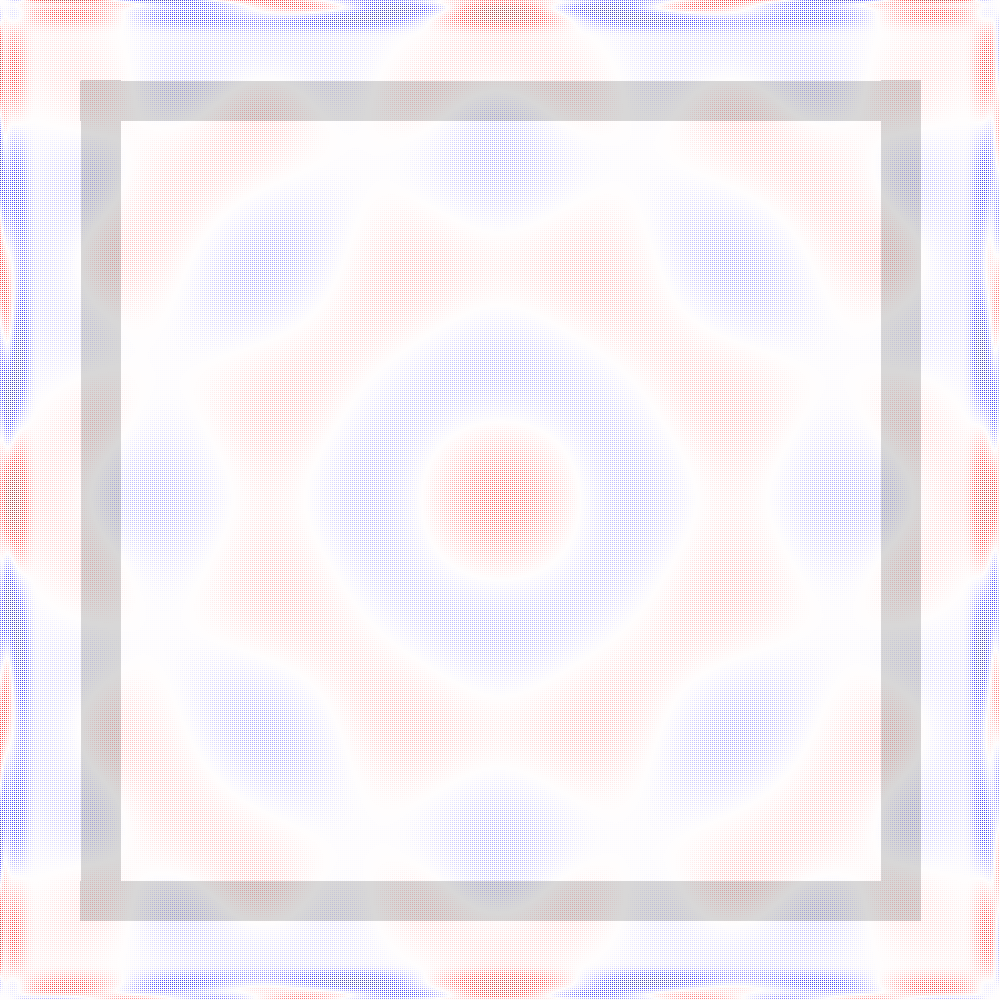
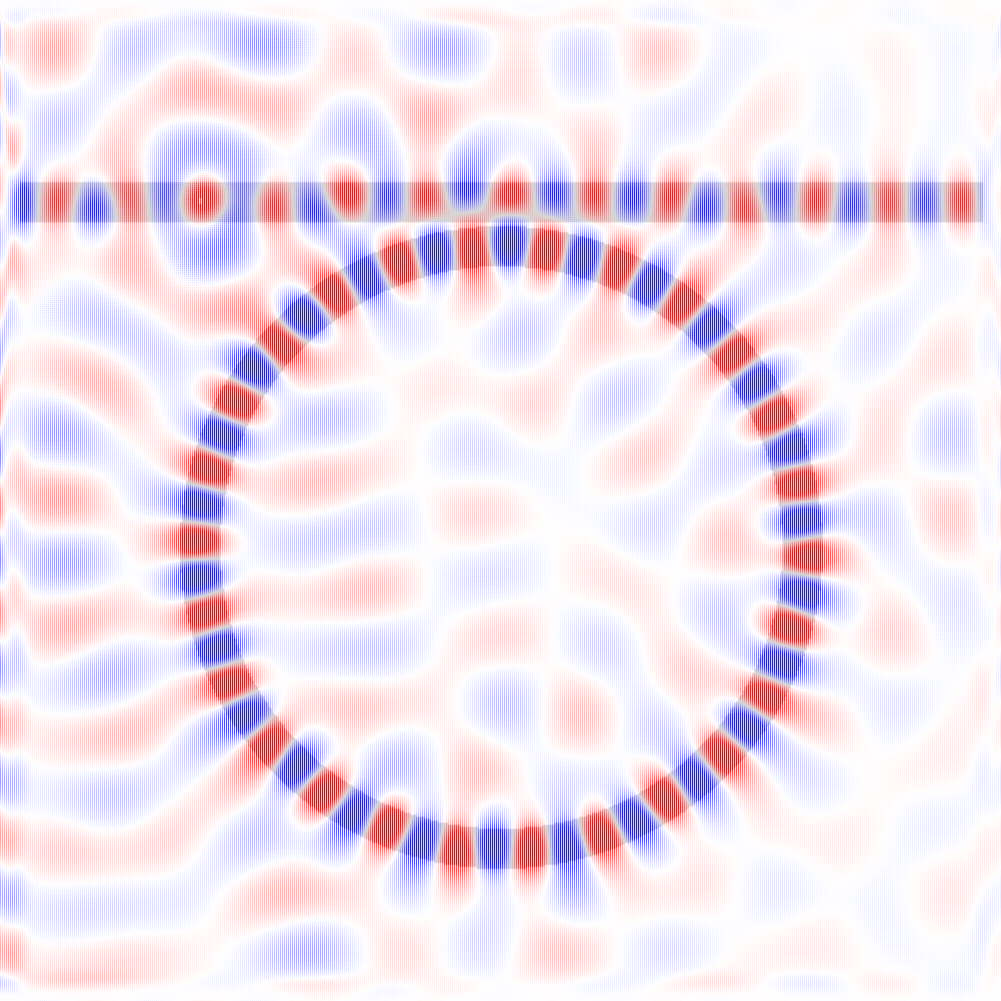
trying patching

diff --git a/python-src/fdfd.py b/python-src/fdfd.py
@@ -1,17 +1,21 @@
 import numpy as np
+import scipy.sparse as sparse
 import scipy.sparse as sp
+from scipy.linalg import solve_banded
 from main import material_init
 from utils import plot_Ez
 import matplotlib.pyplot as plt
+import time
+import pyamg
+from collections import deque
+
+
+def solve_linear(A, b):
+    return sp.linalg.spsolve(A, b)
 
 
 def make_A(eps, mu, dx, dy, Nx, Ny, omega, pml_thickness=40, sigma_max=2, m=3):
-    print("Starting make_A function...")
-    print(f"Grid size: {Nx}x{Ny}, dx={dx}, dy={dy}")
-    print(f"PML parameters: thickness={pml_thickness}, sigma_max={sigma_max}, m={m}")
-
     # define the 1d profiles for the pml first
-    print("Calculating PML profiles...")
     sigma_x_1d = np.zeros(Nx)
     sigma_x_1d[0:pml_thickness] = (
         sigma_max * (np.flip(np.arange(pml_thickness), axis=0) / (pml_thickness)) ** m
@@ -29,54 +33,111 @@ def make_A(eps, mu, dx, dy, Nx, Ny, omega, pml_thickness=40, sigma_max=2, m=3):
     )
 
     # lift to 2d
-    print("Extending PML profiles to 2D...")
     sigma_x_2d_extrapolated = np.tile(sigma_x_1d[None, :], (Ny, 1))
     sigma_y_2d_extrapolated = np.tile(sigma_y_1d[:, None], (1, Nx))
 
     # form stretching array
-    print("Calculating stretching arrays...")
     s_x = 1 + 1j * sigma_x_2d_extrapolated / (omega * 8.85418e-12)
     s_y = 1 + 1j * sigma_y_2d_extrapolated / (omega * 8.85418e-12)
 
     # Construct Dx array
-    print("Constructing derivative operators...")
     Dx = sp.diags([-1, 1], [-1, 1], shape=(Nx, Nx)) / (2 * dx)
     Dy = sp.diags([-1, 1], [-1, 1], shape=(Ny, Ny)) / (2 * dy)
 
     I_N_x = sp.eye(Nx)
     I_N_y = sp.eye(Ny)
 
-    print("Building curl operators...")
     C_x = sp.kron(I_N_y, Dx)
     C_y = sp.kron(Dy, I_N_x)
 
     C_x = sp.diags(1 / s_x.flatten(), 0, shape=(Nx * Ny, Nx * Ny)) @ C_x
     C_y = sp.diags(1 / s_y.flatten(), 0, shape=(Nx * Ny, Nx * Ny)) @ C_y
 
-    print("Creating material matrices...")
     eps_flat = eps.flatten()
     mu_flat = mu.flatten()
 
     M_eps = sp.diags(eps_flat, 0, shape=(Nx * Ny, Nx * Ny))
     M_mu = sp.diags(1 / mu_flat, 0, shape=(Nx * Ny, Nx * Ny))
 
-    print("Assembling final matrix A...")
     A = C_x @ M_mu @ C_x.T + C_y @ M_mu @ C_y.T - omega**2 * M_eps
 
-    print("Matrix A construction complete.")
     return A
 
 
+def plot_nonzero(A):
+    """Plot the sparsity pattern of the first 5000x5000 elements of matrix A.
+    Red indicates nonzero elements, blue indicates zero elements."""
+
+    plt.figure(figsize=(12, 12))
+    A_dense = A[
+        :5000, :5000
+    ].toarray()  # Convert top-left 5000x5000 corner to dense array
+    plt.imshow(A_dense != 0, cmap="RdBu")  # Red for nonzero, blue for zero
+    plt.colorbar()
+    plt.title("Sparsity pattern of matrix A (first 5000x5000 elements)")
+    plt.xlabel("Column index")
+    plt.ylabel("Row index")
+    plt.savefig("matrix_pattern_5000.png", dpi=300, bbox_inches="tight")
+    plt.close()
+
+
+def run_fdfd(eps, mu, dx, dy, omega, source, patch_size=100):
+    patches = []
+    # Split the source into 100x100 patches
+    Nx, Ny = source.shape
+
+    # Calculate number of patches in each dimension
+    n_patches_x = (Nx + patch_size - 1) // patch_size  # Ceiling division
+    n_patches_y = (Ny + patch_size - 1) // patch_size
+
+    # Split into patches
+    for i in range(n_patches_x):
+        for j in range(n_patches_y):
+            # Calculate patch boundaries
+            x_start = i * patch_size
+            x_end = min((i + 1) * patch_size, Nx)
+            y_start = j * patch_size
+            y_end = min((j + 1) * patch_size, Ny)
+
+            # Extract patch
+            patch = source[x_start:x_end, y_start:y_end]
+            patches.append(patch)
+
+    # Find patches with nonzero source
+    nonzero_patches = []
+    patch_locations = []
+    for idx, patch in enumerate(patches):
+        if np.any(patch != 0):
+            nonzero_patches.append(patch)
+            # Calculate patch location from index
+            patch_i = idx // n_patches_y  # Row index
+            patch_j = idx % n_patches_y  # Column index
+            patch_locations.append((patch_i, patch_j))
+
+    # Plot the nonzero patches to visualize their locations
+    plt.figure(figsize=(10, 10))
+    patch_map = np.zeros((n_patches_x, n_patches_y))
+    for i, j in patch_locations:
+        patch_map[i, j] = 1
+    plt.imshow(patch_map, cmap="binary")
+    plt.colorbar()
+    plt.title("Nonzero Source Patch Locations")
+    plt.xlabel("Patch Column Index")
+    plt.ylabel("Patch Row Index")
+    plt.savefig("nonzero_patches.png", dpi=300, bbox_inches="tight")
+    plt.close()
+
+
 if __name__ == "__main__":
-    Nx = 1000
-    Ny = 1000
+    Nx = 1001
+    Ny = 1001
     dx = dy = 1e-3
-    omega = 9e9
+    omega = 17e9
 
     source = np.zeros((Nx, Ny))
-    source[Nx // 2, Ny // 2] = 10
+    source[197:199, 190] = 10
 
-    eps, mu = material_init("box.png", Nx, Ny, 3)
+    eps, mu = material_init("example_structure.png", Nx, Ny, 3)
 
     c_medium = 1 / np.sqrt(eps * mu)
     c_min = np.min(c_medium)
@@ -97,20 +158,17 @@ if __name__ == "__main__":
     b = -1j * omega * source.flatten()
 
     # Plot the top left corner of the matrix A
-    plt.figure(figsize=(10, 10))
-    A_dense = A[:100, :100].toarray()  # Convert top-left corner to dense array
-    plt.imshow(A_dense != 0, cmap="RdBu")  # Red for nonzero, blue for zero
-    plt.colorbar()
-    plt.title("Sparsity pattern of top-left corner of matrix A")
-    plt.savefig("matrix_pattern.png")
-    plt.close()
-    print(b.shape)
+    # plt.figure(figsize=(10, 10))
+    # A_dense = A[:100, :100].toarray()  # Convert top-left corner to dense array
+    # plt.imshow(A_dense != 0, cmap="RdBu")  # Red for nonzero, blue for zero
+    # plt.colorbar()
+    # plt.title("Sparsity pattern of top-left corner of matrix A")
+    # plt.savefig("matrix_pattern.png")
+    # plt.close()
+    # print(b.shape)
+    # graph = sp.csgraph.reverse_cuthill_mckee(A, symmetric_mode=True)
+    # permuted_A = A[graph, :][:, graph]
+    # print(sp.linalg.spbandwidth(A))
+    # print(sp.linalg.spbandwidth(permuted_A))
 
-    # Ez_new = sp.linalg.spsolve(A, b)
-
-    # Ez = Ez_new.reshape(Nx, Ny)
-
-    # Ez = np.real(Ez)
-    # print(np.max(Ez), np.min(Ez))
-
-    # plot_Ez(Ez, eps, source, "Ez.png", np.max(np.abs(Ez)), -np.max(np.abs(Ez)))
+    Ez_new = run_fdfd(eps, mu, dx, dy, omega, source)

diff --git a/python-src/diffusion_training.py b/python-src/diffusion_training.py
@@ -1,0 +1,102 @@
+from fdfd import run_fdfd
+from noise import pnoise2
+import numpy as np
+import matplotlib.pyplot as plt
+import torch
+import torch.nn as nn
+import torch.nn.functional as F
+from utils import plot_Ez
+
+
+def generate_random_structure(Nx=500, Ny=500, eps0=8.85418e-12, mu0=1.25663e-6):
+    """
+    Generate random waveguide structure with input/output waveguides and random middle section.
+
+    Args:
+        Nx, Ny: Grid dimensions
+        eps0: Vacuum permittivity
+        mu0: Vacuum permeability
+
+    Returns:
+        eps: Relative permittivity array
+        mu: Permeability array
+        source: Source array
+    """
+    # Initialize background
+    eps = np.ones((Nx, Ny)) * eps0
+    mu = np.ones((Nx, Ny)) * mu0
+
+    # Add input waveguide on left
+    eps[200:300, :100] = 2 * eps0
+
+    # Add output waveguide on right
+    eps[200:300, 400:] = 2 * eps0
+
+    # Add random structure in middle
+    # Generate Perlin noise for more natural-looking random structures
+
+    # Generate and threshold the noise
+    # Generate Perlin noise
+    scale = 75.0  # Increased scale for lower frequency noise
+    octaves = 4  # Reduced octaves for less fine detail
+    persistence = 0.5  # How much each octave contributes
+    lacunarity = 2.0  # How much detail is added at each octave
+
+    structure_region = np.zeros((300, 300))
+    # Add random offsets to get different patterns each time
+    x_offset = np.random.rand() * 10000000
+    y_offset = np.random.rand() * 10000000
+
+    for i in range(300):
+        for j in range(300):
+            structure_region[i][j] = pnoise2(
+                (i + x_offset) / scale,
+                (j + y_offset) / scale,
+                octaves=octaves,
+                persistence=persistence,
+                lacunarity=lacunarity,
+            )
+
+    # Normalize to [0,1] and threshold
+    structure_region = (structure_region - structure_region.min()) / (
+        structure_region.max() - structure_region.min()
+    )
+    structure_region = structure_region > 0.5  # Convert to binary mask
+    eps[100:400, 100:400] = np.where(structure_region, 2 * eps0, eps[100:400, 100:400])
+
+    # Create source at input waveguide
+    source = np.zeros((Nx, Ny))
+    source[225:275, 50] = 1  # Line source at x=50
+
+    return eps, mu, source
+
+
+def preview_eps_source(eps, source):
+    """
+    Plot the permittivity and source distributions for visualization.
+
+    Args:
+        eps: Relative permittivity array
+        source: Source array
+    """
+
+    plt.figure(figsize=(12, 6))
+
+    # Plot permittivity
+    plt.subplot(121)
+    plt.imshow(eps, cmap="viridis")
+    plt.colorbar(label="Relative Permittivity")
+    plt.title("Permittivity Distribution")
+    plt.xlabel("x")
+    plt.ylabel("y")
+
+    # Plot source
+    plt.subplot(122)
+    plt.imshow(source, cmap="RdBu")
+    plt.colorbar(label="Source Amplitude")
+    plt.title("Source Distribution")
+    plt.xlabel("x")
+    plt.ylabel("y")
+
+    plt.tight_layout()
+    plt.show()
